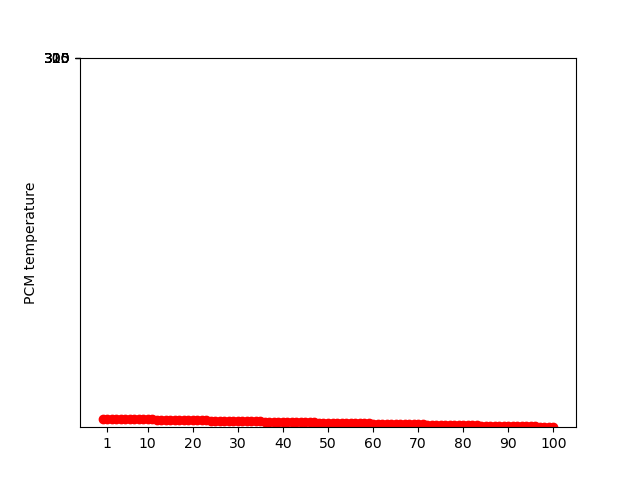
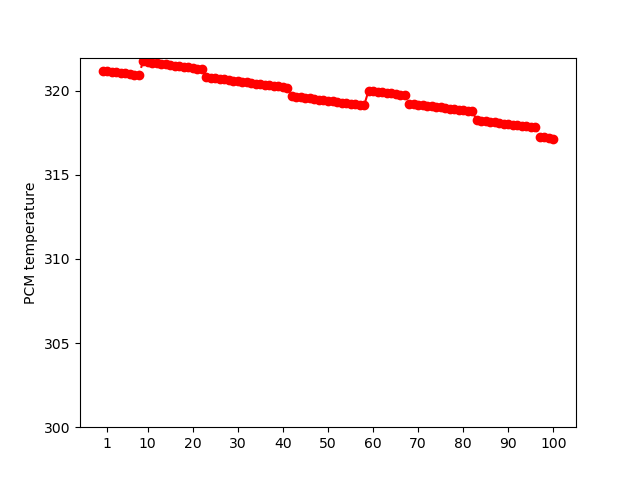
add new change

diff --git a/phasechange2025test6.py b/phasechange2025test6.py
@@ -44,12 +44,7 @@ omega = (1. - np.exp( (-1.) * NTU/N))
 Y = Cs / dtheta
 
 
-#*****Vector sets*****#
-
-S=100
-#Nt = int(S/dt)            # nmb of time intervals
-#S = Nt*dt                 # adjust T to fit time step dt
-    
+#*****Vector set ups*****#    
 Ta = np.zeros(100*N+1)         #ambient temperature   
 T = np.zeros(N+1)          #solid temperature
 TT = np.zeros(N+1)         
@@ -98,6 +93,7 @@ with open("Tamb2.txt", "r") as archivo:
 #print("Condition number of the matrix:")
 #print(result)
 
+
 ##### ITERATIVE PROCESS#####
 while True:
     xx = x
@@ -115,11 +111,12 @@ while True:
             Tf [i] = (1. - omega) * Tf [i-1] + omega * 0.5 * (T [i] + TT [i])
         else:
             Tf [i] = Tf [i-1]
-       
-        #print ((x - xx))
-    
-        print ("it passed here")
+           
+        print ("it was here")
 
+       
+
+        # Print section
         if kk % 100 == 0:
             plt.plot(T,'r--o')
             plt.ylabel('PCM temperature')
@@ -130,10 +127,8 @@ while True:
             plt.savefig('figure'+str(kk)+'.png', format='PNG')
             plt.clf()
             #plt.show()
-            #print  "%.2f %.2f" % ( Tf [i], T [i])
-            #print (Ta [kk-1])
     
     kk = kk + 1
-    if not (la.norm(T)-la.norm(TT))>20.:
+    if not (la.norm(T)-la.norm(TT))<20.:
        break
 
